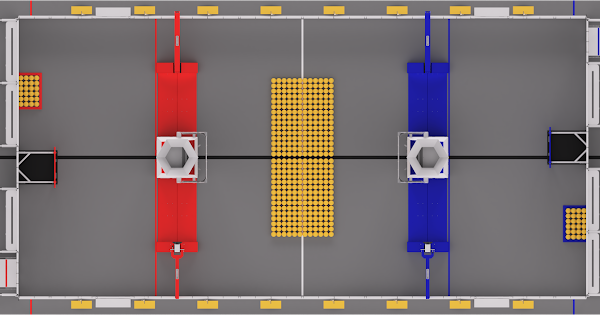
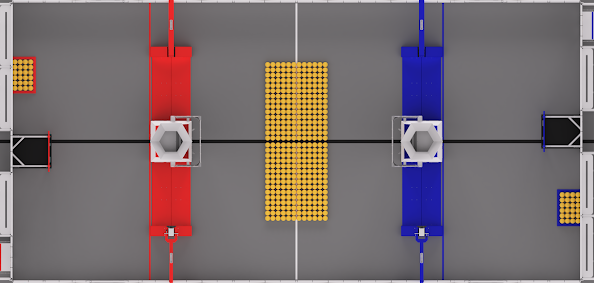
Added auto tracking, extrapolation, and visualization
Calculated boxes of the path
Also improved image quality a bit
Still gotta bugtest some more

diff --git a/resources/js/formSetup/formSetup_2026.js b/resources/js/formSetup/formSetup_2026.js
@@ -550,7 +550,7 @@ function onScoreLocClicked(event) {
         let target = event.target;
         let base = getIdBase(target.id);
         //Resolution height and width (e.g. 52x26)
-        let resX = 20;
+        let resX = 16;
         let resY = 10;
 
         //Turns coordinates into a numeric box
@@ -1693,6 +1693,90 @@ function getData(dataFormat) {
             if (getRobot().charAt(0) === 'b') {
                 thisFieldValue = -thisFieldValue + 4;
             }
+        } else if (fieldname === 'ascoreloc') { //lowkey all vibe-coded glhf whoever's next :D
+            let field = document.getElementById('canvas_ascoreloc')
+            let boxes = JSON.parse(field.getAttribute('boxes'))
+
+            if (boxes != null) {
+                if (boxes.length > 1) {
+                    thisFieldValue = [boxes[0]]
+                    for (let i = 0; i < boxes.length - 1; i++) {
+                        let reverse = false;
+                        let reverseBoxes = [];
+
+                        let y1 = Math.ceil(boxes[i] / 16);
+                        let x1 = boxes[i] % 16;
+                        x1 = x1 == 0 ? 16 : x1;
+
+                        let y2 = Math.ceil(boxes[i + 1] / 16);
+                        let x2 = boxes[i + 1] % 16;
+                        x2 = x2 == 0 ? 16 : x2;
+
+                        if (x1 == x2 && y1 == y2)
+                            continue;
+                        if (x1 == x2) {
+                            if (y1 > y2) {
+                                for (let y = y1; y >= y2; y--)
+                                    if (thisFieldValue[thisFieldValue.length - 1] != x1 + 16 * (y - 1))
+                                        thisFieldValue.push(x1 + 16 * (y - 1))
+                            } else
+                                for (let y = y1; y <= y2; y++)
+                                    if (thisFieldValue[thisFieldValue.length - 1] != x1 + 16 * (y - 1))
+                                        thisFieldValue.push(x1 + 16 * (y - 1))
+                        } else if (y1 == y2) {
+                            if (x1 > x2) {
+                                for (let x = x1; x >= x2; x--)
+                                    if (thisFieldValue[thisFieldValue.length - 1] != x + 16 * (y1 - 1))
+                                        thisFieldValue.push(x + 16 * (y1 - 1))
+                            } else
+                                for (let x = x1; x <= x2; x++)
+                                    if (thisFieldValue[thisFieldValue.length - 1] != x + 16 * (y1 - 1))
+                                        thisFieldValue.push(x + 16 * (y1 - 1))
+                        } else {
+                            if (x2 < x1) {
+                                reverse = true;
+
+                                let y = y1;
+                                y1 = y2;
+                                y2 = y;
+
+                                let x = x1;
+                                x1 = x2;
+                                x2 = x
+                            }
+
+                            let yOffset;
+                            if (y2 > y1) yOffset = 1;
+                            if (y2 < y1) yOffset = -1;
+
+                            let slope = (y2 - y1 + yOffset) / (x2 - x1 + 1);
+
+                            for (let x = 0; x <= x2 - x1 + 1; x += 0.1) {
+                                let boxXOffset = Math.floor(x)
+                                let boxYOffset = slope > 0 ? Math.floor(x * slope) : Math.ceil(x * slope)
+                                let box = x1 + boxXOffset + 16 * (y1 + boxYOffset - 1);
+
+                                if (reverse) {
+                                    if (reverseBoxes[reverseBoxes.length - 1] != box && box <= 160 && box > 0)
+                                        reverseBoxes.push(box)
+                                } else {
+                                    if (thisFieldValue[thisFieldValue.length - 1] != box && box <= 160 && box > 0)
+                                        thisFieldValue.push(box)
+                                }
+                            }
+
+                            if (reverse) {
+                                for (let ri = reverseBoxes.length - 1; ri >= 0; ri--) {
+                                    if (thisFieldValue[thisFieldValue.length - 1] != reverseBoxes[ri])
+                                        thisFieldValue.push(reverseBoxes[ri])
+                                }
+                            }
+                        }
+                    }
+                } else {
+                    thisFieldValue = boxes
+                }
+            }
         } else {
             thisFieldValue = thisField.value ? thisField.value.replace(/"/g, '').replace(/;/g, "-") : "";
         }
@@ -1882,8 +1966,8 @@ function clearForm() {
 
 //auto start rectangles
 let autoBoxWidth = 30;
-let ys = [8, 30, 66, 84, 120];
-let heights = [22, 36, 18, 36, 22];
+let ys = [0, 26, 65, 86, 123];
+let heights = [26, 38, 21, 38, 26];
 
 // Draw fields on
 function drawFields(name) {
@@ -1899,7 +1983,7 @@ function drawFields(name) {
         ctx.drawImage(img, 0, 0, f.width, f.height);
 
         if (shapeArr[0].toLowerCase() === 'circle') {
-            for (let x = 78 - autoBoxWidth; x < 226; x += autoBoxWidth + 147) {
+            for (let x = 76 - autoBoxWidth; x < 225; x += autoBoxWidth + 148) {
                 for (let y = 0; y < ys.length; y++) {
                     rectangle(ctx, x, ys[y], autoBoxWidth, heights[y], false);
                 }
@@ -1921,7 +2005,7 @@ function drawFields(name) {
                 let radius = 5;
                 let drawType = shapeArr[0].toLowerCase()
                 if (drawType === 'circle') {  // Should only be for auto start pos {Circle: ctx.arc(centerX, centerY, shapeArr[1], 0, 2 * Math.PI, false);}
-                    let x_level = (centerX < 78 && centerX > 78 - autoBoxWidth) ? 78 - autoBoxWidth : ((centerX > 225 && centerX < 225 + autoBoxWidth) ? 225 : -1);
+                    let x_level = (centerX < 76 && centerX > 76 - autoBoxWidth) ? 76 - autoBoxWidth : ((centerX > 224 && centerX < 224 + autoBoxWidth) ? 224 : -1);
                     let y_level;
                     if (x_level === -1 || (x_level == 225 && getRobot().charAt(0) === "r") || (x_level == 78 - autoBoxWidth && getRobot().charAt(0) === "b")) { continue; }
                     for (y_level = 0; y_level < ys.length - 1; y_level++) {
@@ -1938,22 +2022,21 @@ function drawFields(name) {
                     ctx.beginPath()
                     ctx.arc(centerX, centerY, radius, 0, 2 * Math.PI, false);
                     ctx.fill()
-                    ctx.stroke()
 
-                    /*
-                    if (prevX != null && prevY != null) {
-                        ctx.moveTo(prevX, prevY)
-                        ctx.lineTo(centerX, centerY)
+                    if (code == "ascoreloc") {
+                        if (prevX != null && prevY != null) {
+                            ctx.moveTo(prevX, prevY)
+                            ctx.lineTo(centerX, centerY)
+                        }
+
+                        ctx.closePath()
+
+                        prevX = centerX;
+                        prevY = centerY;
                     }
 
-                    ctx.closePath()
-
                     ctx.stroke()
 
-
-                    prevX = centerX;
-                    prevY = centerY;
-                    */
                 }
             }
         }
